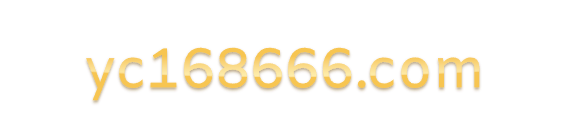
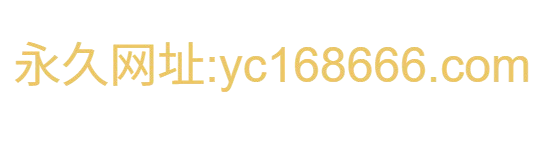
将顶部wz.png图片宽度设置为与下方1.jpg等宽，并调整布局对齐

Changed region(s): [[0.0312, 0.2951, 0.9688, 0.8607]]

diff --git a/index.html b/index.html
@@ -3,7 +3,7 @@
 
 <head>
     <meta http-equiv="Content-Type" content="text/html; charset=UTF-8">
-    <title>改为亿诚导航页</title>
+    <title>亿诚导航页</title>
 
     <meta http-equiv="X-UA-Compatible" content="IE=edge">
     <meta name="renderer" content="webkit">
@@ -22,9 +22,11 @@
 
 <body>
     <div class="head">
-        <div class="logo">
-            <h1><a href="" target="_blank" class=""><img src="files/logo.png" alt=""></a></h1>
-        </div>
+        <!-- 
+            <div class="logo">
+                <h1><a href="" target="_blank" class=""><img src="files/logo.png" alt=""></a></h1>
+            </div> 
+        -->
         <a href="" class=""><img src="files/wz.png" alt=""></a>
     </div>
 

diff --git a/files/global.css b/files/global.css
@@ -10,7 +10,7 @@ body {
 }
 
 .head {
-    height: 120px;
+    height: auto;
     background: #ffffff;
     padding: 0 10px;
     display: -webkit-box;
@@ -25,6 +25,17 @@ body {
     -webkit-align-items: center;
     -ms-flex-align: center;
     align-items: center;
+}
+
+.head>a {
+    display: block;
+    width: 100%;
+}
+
+.head img {
+    width: 100%;
+    height: auto;
+    display: block;
 }
 
 .ban {
